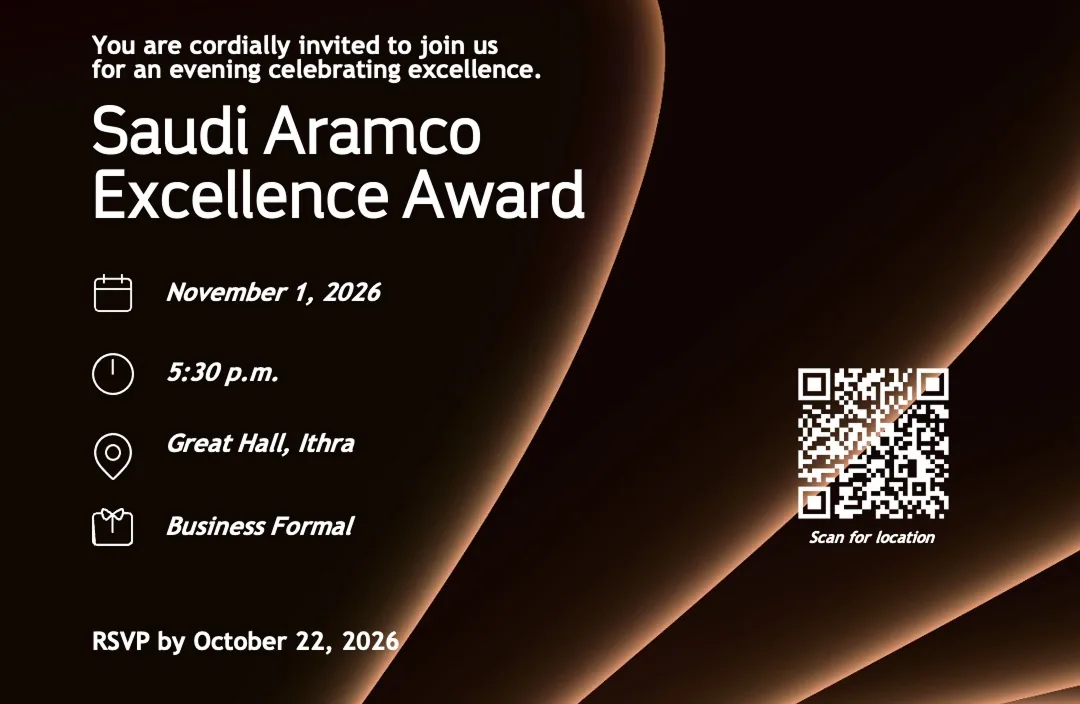
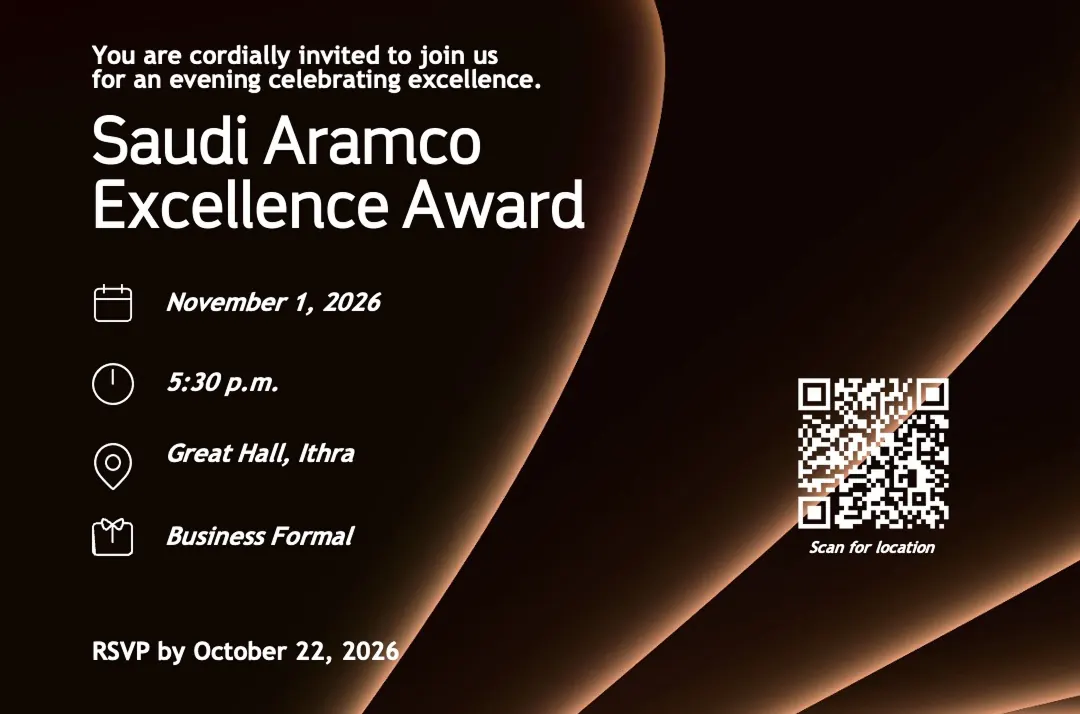
Excellence award - 2

diff --git a/emailInvite.html b/emailInvite.html
@@ -212,12 +212,7 @@
         </tr>
         <tr>
             <td colspan="2" style="padding:0; line-height:0; font-size:0;">
-                <img src="assets/emailInvitation/excellenceAwards/above-name.webp" width="560" alt="" style="display:block; width:100%; height:auto; border:0;" />
-            </td>
-        </tr>
-        <tr>
-            <td colspan="2" style="padding:0; line-height:0; font-size:0;">
-                <img id="excellenceName" width="560" alt="" style="display:block; width:100%; height:auto; aspect-ratio:1080 / 190; border:0; background:#140c09;" />
+                <img id="excellenceName" width="560" alt="" style="display:block; width:100%; height:auto; aspect-ratio:1080 / 220; border:0; background:#140c09;" />
             </td>
         </tr>
         <tr>
